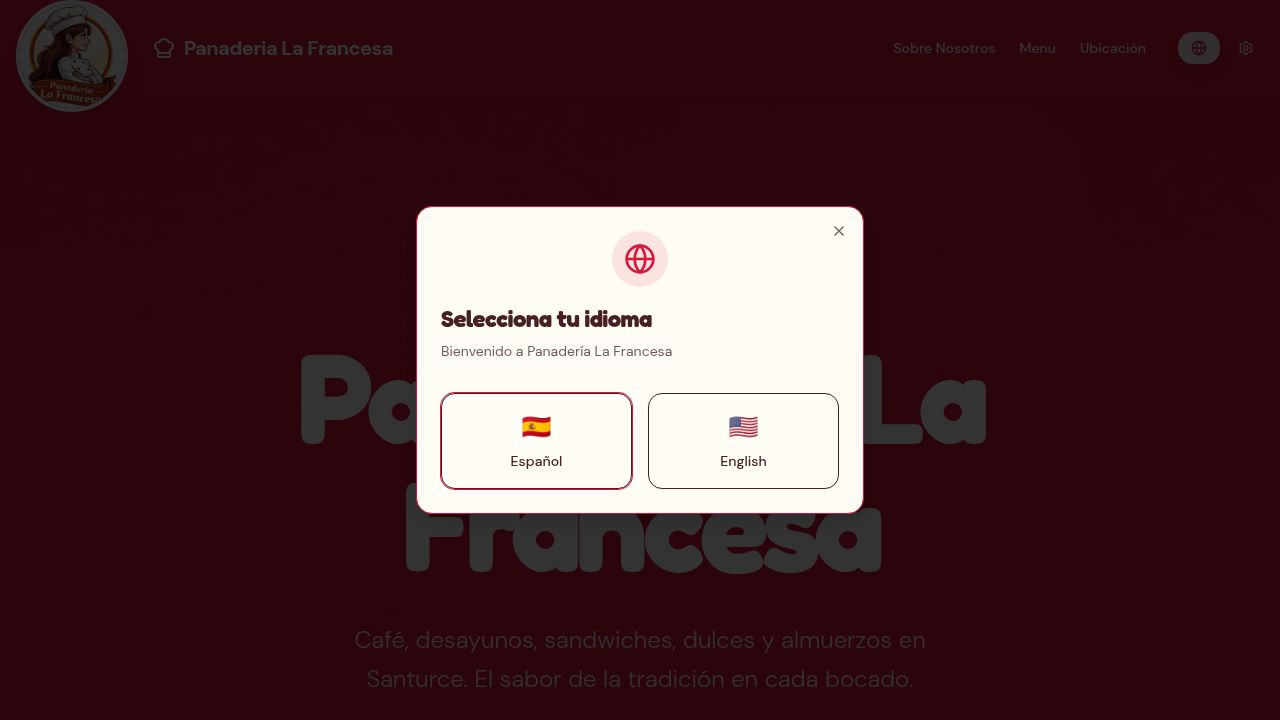
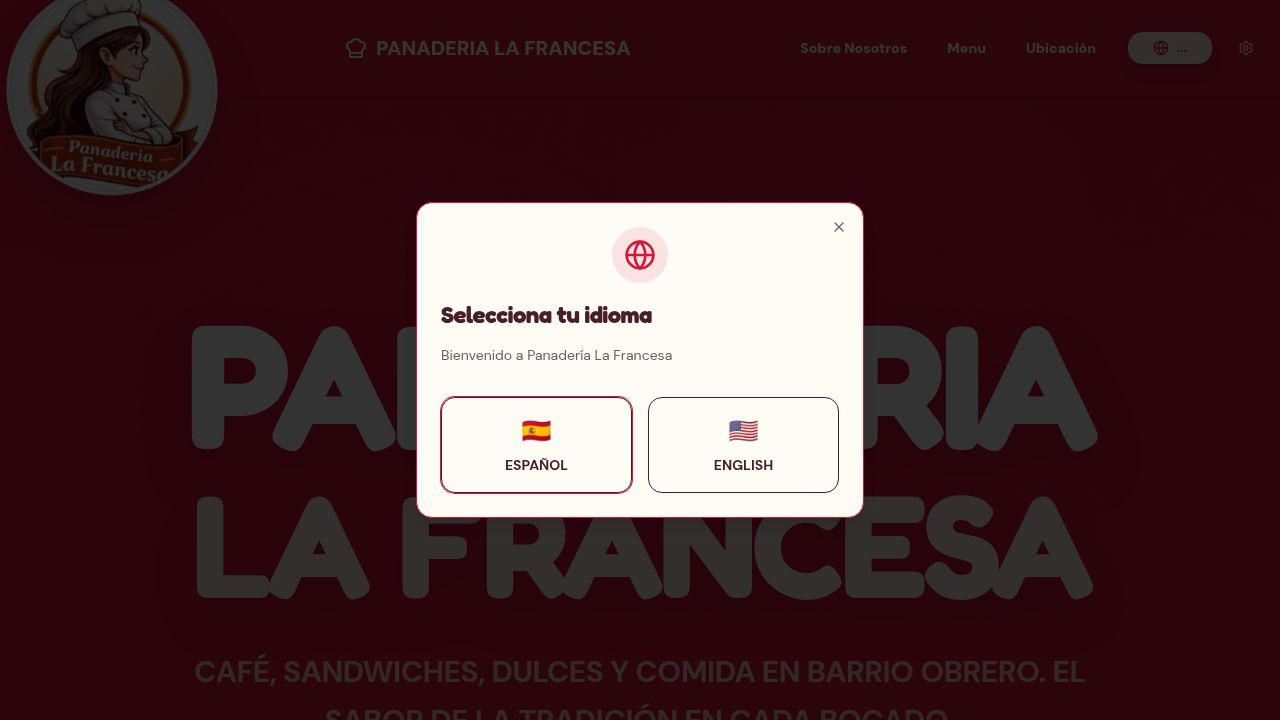
Add comprehensive website content and improve user experience
Initialize site content for hero, descriptions, menu items, and special events in Home.tsx, including bilingual text and image URLs.

Replit-Commit-Author: Agent
Replit-Commit-Session-Id: eb66924e-08e4-471a-b1f4-0ffcc0da9348
Replit-Commit-Checkpoint-Type: full_checkpoint
Replit-Commit-Event-Id: a35b7439-2a80-49bc-b3cb-d279811e53e2
Replit-Commit-Screenshot-Url: https://storage.googleapis.com/screenshot-production-us-central1/d110f8f6-6557-4fca-a523-39a093ca43f4/eb66924e-08e4-471a-b1f4-0ffcc0da9348/mYrWUC7
Replit-Helium-Checkpoint-Created: true

diff --git a/client/src/pages/Home.tsx b/client/src/pages/Home.tsx
@@ -81,7 +81,24 @@ export default function Home() {
 
   // Editable State
   const [siteData, setSiteData] = useState({
-    // ... existing fields
+    heroBadgeEs: "Desayunos & Almuerzos",
+    heroBadgeEn: "Breakfast & Lunch",
+    heroTitle: "Panaderia La Francesa",
+    heroDescEs: "Café, sandwiches, dulces y comida en Barrio Obrero. El sabor de la tradición en cada bocado.",
+    heroDescEn: "Coffee, sandwiches, sweets and food in Barrio Obrero. The taste of tradition in every bite.",
+    avgPrice: "$5 - $10",
+    phone: "(939) 337-4777",
+    address: "1963 Av. Borinquen, San Juan, PR 00915",
+    directionsBtnEs: "CÓMO LLEGAR",
+    directionsBtnEn: "DIRECTIONS",
+    aboutDescEs: "Somos una panadería y cafetería en Barrio Obrero, reconocida por nuestro pan fresco, postres artesanales y un servicio familiar. Ofrecemos desayunos, almuerzos y una gran variedad de sandwiches.",
+    aboutDescEn: "We are a bakery and cafeteria in Barrio Obrero, recognized for our fresh bread, artisanal desserts and family service. We offer breakfast, lunch and a wide variety of sandwiches.",
+    showSpecialEvents: false,
+    specialEventsTitleEs: "Eventos Especiales",
+    specialEventsTitleEn: "Special Events",
+    specialEventsDescEs: "¡Únete a nosotros para nuestras noches de música en vivo y degustaciones!",
+    specialEventsDescEn: "Join us for our live music nights and tastings!",
+    specialEventsImage: "https://images.unsplash.com/photo-1511795409834-ef04bbd61622?q=80&w=2069&auto=format&fit=crop",
     reviews: [
       { id: "r1", name: "Juan Pérez", comment: "El mejor pan de Barrio Obrero. El café siempre está en su punto.", rating: 5 },
       { id: "r2", name: "Maria Rodriguez", comment: "Los quesitos son adictivos. Servicio excelente.", rating: 5 }
@@ -96,7 +113,32 @@ export default function Home() {
           { id: "b2", nameEs: "Jugo Natural", nameEn: "Natural Juice", price: "3.50", descEs: "Naranja o Acerola.", descEn: "Orange or Acerola.", image: "https://images.unsplash.com/photo-1621506289937-a8e4df240d0b?q=80&w=2000&auto=format&fit=crop" }
         ]
       },
-      // ... more with images
+      {
+        id: "almuerzos",
+        nameEs: "Almuerzo del Día",
+        nameEn: "Daily Lunch",
+        items: [
+          { id: "a1", nameEs: "Arroz con Habichuelas y Pollo", nameEn: "Rice with Beans and Chicken", price: "8.50", descEs: "Servido con ensalada y amarillos.", descEn: "Served with salad and sweet plantains.", image: "https://images.unsplash.com/photo-1546069901-ba9599a7e63c?q=80&w=2000&auto=format&fit=crop" }
+        ]
+      },
+      {
+        id: "sandwiches",
+        nameEs: "Sandwiches",
+        nameEn: "Sandwiches",
+        items: [
+          { id: "s1", nameEs: "Sandwich de Mezcla", nameEn: "Mix Sandwich", price: "4.50", descEs: "El clásico de la casa.", descEn: "The house classic.", image: "https://images.unsplash.com/photo-1525351484163-7529414344d8?q=80&w=2000&auto=format&fit=crop" },
+          { id: "s2", nameEs: "Cubano", nameEn: "Cuban Sandwich", price: "7.50", descEs: "Pernil, jamón, queso suizo, pepinillos y mostaza.", descEn: "Pork, ham, swiss cheese, pickles and mustard.", image: "https://images.unsplash.com/photo-1553909489-cd47e0907980?q=80&w=2000&auto=format&fit=crop" }
+        ]
+      },
+      {
+        id: "postres",
+        nameEs: "Postres",
+        nameEn: "Desserts",
+        items: [
+          { id: "p1", nameEs: "Quesito", nameEn: "Quesito", price: "1.75", descEs: "Hojaldre relleno de crema de queso.", descEn: "Puff pastry filled with cream cheese.", image: "https://images.unsplash.com/photo-1551024601-bec78aea704b?q=80&w=2000&auto=format&fit=crop" },
+          { id: "p2", nameEs: "Pastelillo de Guayaba", nameEn: "Guava Pastry", price: "1.75", descEs: "Dulce de guayaba en hojaldre crujiente.", descEn: "Guava paste in crispy puff pastry.", image: "https://images.unsplash.com/photo-1509365465985-25d11c17e812?q=80&w=2000&auto=format&fit=crop" }
+        ]
+      }
     ]
   });
 
@@ -658,7 +700,7 @@ export default function Home() {
                   </Badge>
                 </div>
                 <Button size="lg" asChild className="w-full text-2xl md:text-4xl h-20 md:h-28 shadow-2xl group rounded-2xl md:rounded-[2rem] font-black uppercase hover:scale-[1.02] transition-transform">
-                  <a href={`tel:${siteData.phone.replace(/\D/g,'')}`}>
+                  <a href={`tel:${(siteData.phone || "").replace(/\D/g,'')}`}>
                     <Phone className="mr-4 md:mr-6 h-8 w-8 md:h-12 md:w-12 group-hover:animate-pulse" /> {t.callNow}
                   </a>
                 </Button>
